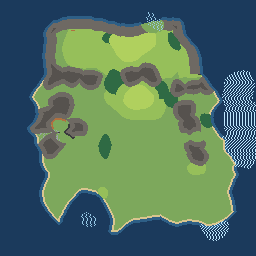
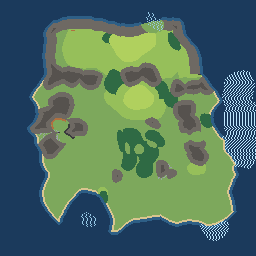
docs: B-2マップv3c（母港の小森復活・中間の自然な森・三角地帯の岩場）

Changed region(s): [[0.375, 0.4375, 0.6875, 0.7188], [0.375, 0.75, 0.4375, 0.8125]]

diff --git a/GPT/game/shioji/design/map_b2/generate_b2_map.py b/GPT/game/shioji/design/map_b2/generate_b2_map.py
@@ -91,6 +91,9 @@ for cx, cy, r in [(48, 124, 15), (62, 112, 13), (66, 138, 13), (50, 150, 12)]:
     mountains |= blob(cx, cy, r, wobble=0.15)
 pocket = blob(54, 132, 9, wobble=0.15)
 mountains &= ~pocket
+# 1・2・3の間の丘(空白を埋める自然地形。低い岩場の背・通行は周囲を回れる)
+for cx, cy, r in [(158, 168, 8), (166, 176, 6), (116, 172, 7), (150, 128, 6)]:
+    mountains |= blob(cx, cy, r, wobble=0.3)
 # 峠(山を貫く回廊が唯一の道)
 def corridor(x0, y0, x1, y1, width=4):
     steps = int(max(abs(x1-x0), abs(y1-y0))) * 2 + 1
@@ -121,12 +124,14 @@ terrain[fert2core | fert2north] = FERT2
 # ── 4. 森(燃料と木材・前線が動く場) ──
 forest = np.zeros((N, N), bool)
 for cx, cy, r in [(114, 88, 11), (134, 84, 10), (152, 88, 10), (166, 94, 9),  # 2の北側・丘陵の門の手前に集中
-                  (98, 212, 4), (84, 202, 4),                             # 母港のすぐ側のごく小さな森(約3年で尽きる較正)
-                  (100, 150, 7), (208, 116, 8),                           # 点在の小さな林
-                  (108, 42, 8), (166, 40, 7)]:                             # 北の少しの木
+                  (101, 196, 5), (79, 202, 4),                            # 母港のそばの小さな森(教程の距離感・3年で尽きる)
+                  (134, 148, 10), (146, 156, 9), (128, 158, 8),           # 1と3の中間の森(不定形の複数塊)
+                  (152, 142, 7), (122, 146, 6), (142, 166, 7),
+                  (208, 116, 8), (108, 42, 8), (166, 40, 7)]:              # 東の小さな林・北の少しの木
     forest |= blob(cx, cy, r, wobble=0.2)
 forest &= island & ~mountains & ~fert2core & ~fert2north & ~pocket
 forest &= ~(blob(134, 102, 20, wobble=0.15))
+forest &= ~(blob(139, 153, 4, wobble=0.4) | blob(129, 150, 3, wobble=0.4) | blob(148, 148, 3, wobble=0.5))  # 森の中の空き地
 terrain[forest] = FOREST
 # ── 5. 砂浜と浅瀬 ──
 def dilate(mask, n=1):
@@ -158,7 +163,7 @@ deposit(ROCKDEP, 46, 144, 10, 30)
 deposit(ORE, 74, 46, 9, 14)
 deposit(COAL, 196, 54, 9, 14)
 # 盆地の南の岩場(採石のみ)
-deposit(ROCKDEP, 148, 186, 8, 10)
+deposit(ROCKDEP, 160, 172, 9, 14)
 
 # ── 7. 漁場(海側に豊かさとして描く) ──
 fish_rich = np.zeros((N, N), bool)

diff --git a/GPT/game/shioji/decisions/DECISIONS_20260814_b2_map_v3c.md b/GPT/game/shioji/decisions/DECISIONS_20260814_b2_map_v3c.md
@@ -1,0 +1,6 @@
+# 決定ログ 2026-08-14 — B-2マップv3c（Nao_u微修正・中央の空白を自然地形で埋める）
+
+**状態**: 凍結
+**Nao_u原文**: 「1の近くに全く木がないので、いまのチュートリアルくらいの位置感で木を置いておいて。1と二の間の森は、y座標はそのままにx座標1と三の中間くらいに大きくして、今くらいの大きさの塊が不定形に複数あるような、自然な凹凸と木のない場所も合わせた自然な森にして。123の間が不自然に何もないので、山など自然な地形に見えるようにして」
+
+**反映**: 母港のそばに教程の距離感の小森(r4-5×2・3年枯渇の較正対象)／1と3の中間(x≈128-152, y≈142-166)に不定形6塊+空き地3つの自然な森／三角地帯に低い岩場の背4つ(通行は迂回可)を配置し採石をそこへ寄せた。距離・峠ロック検証は全て維持
